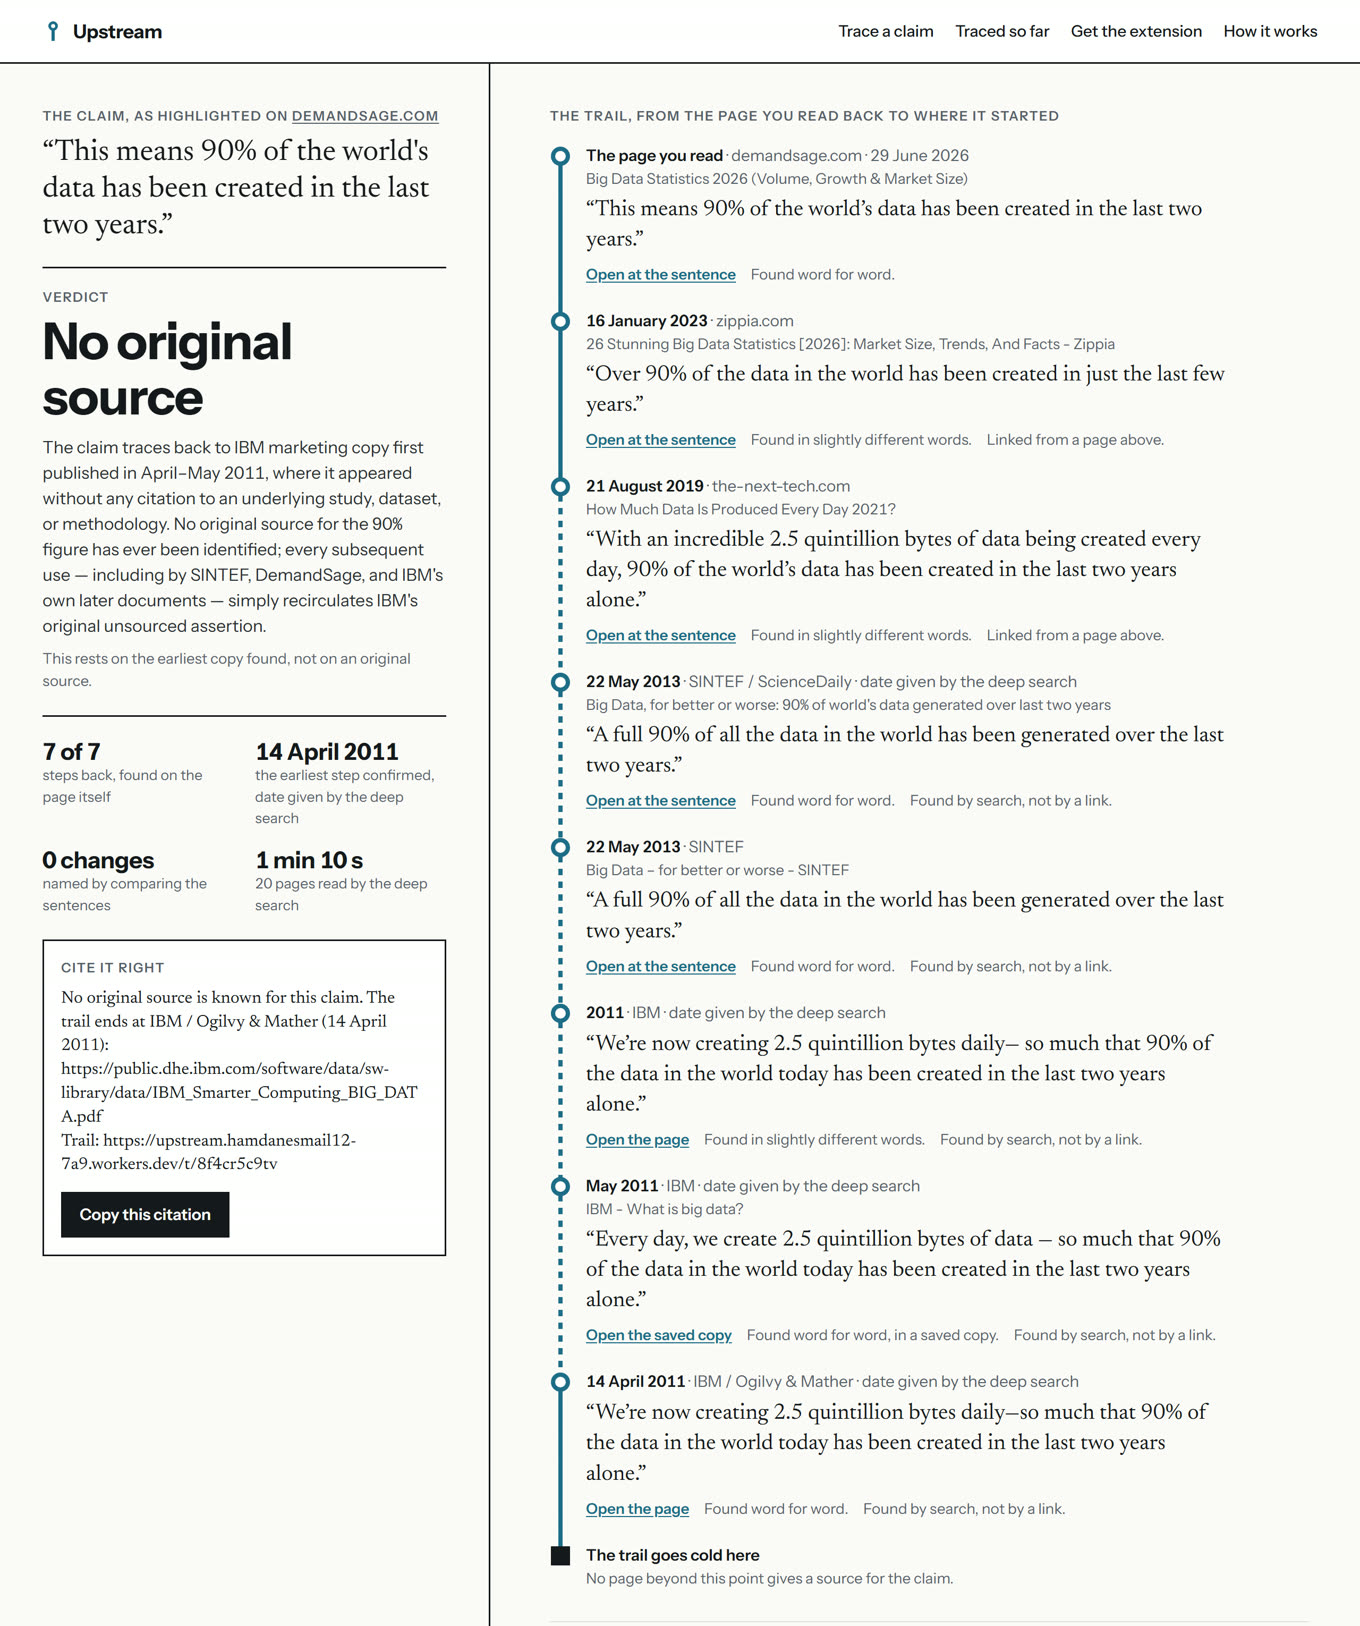
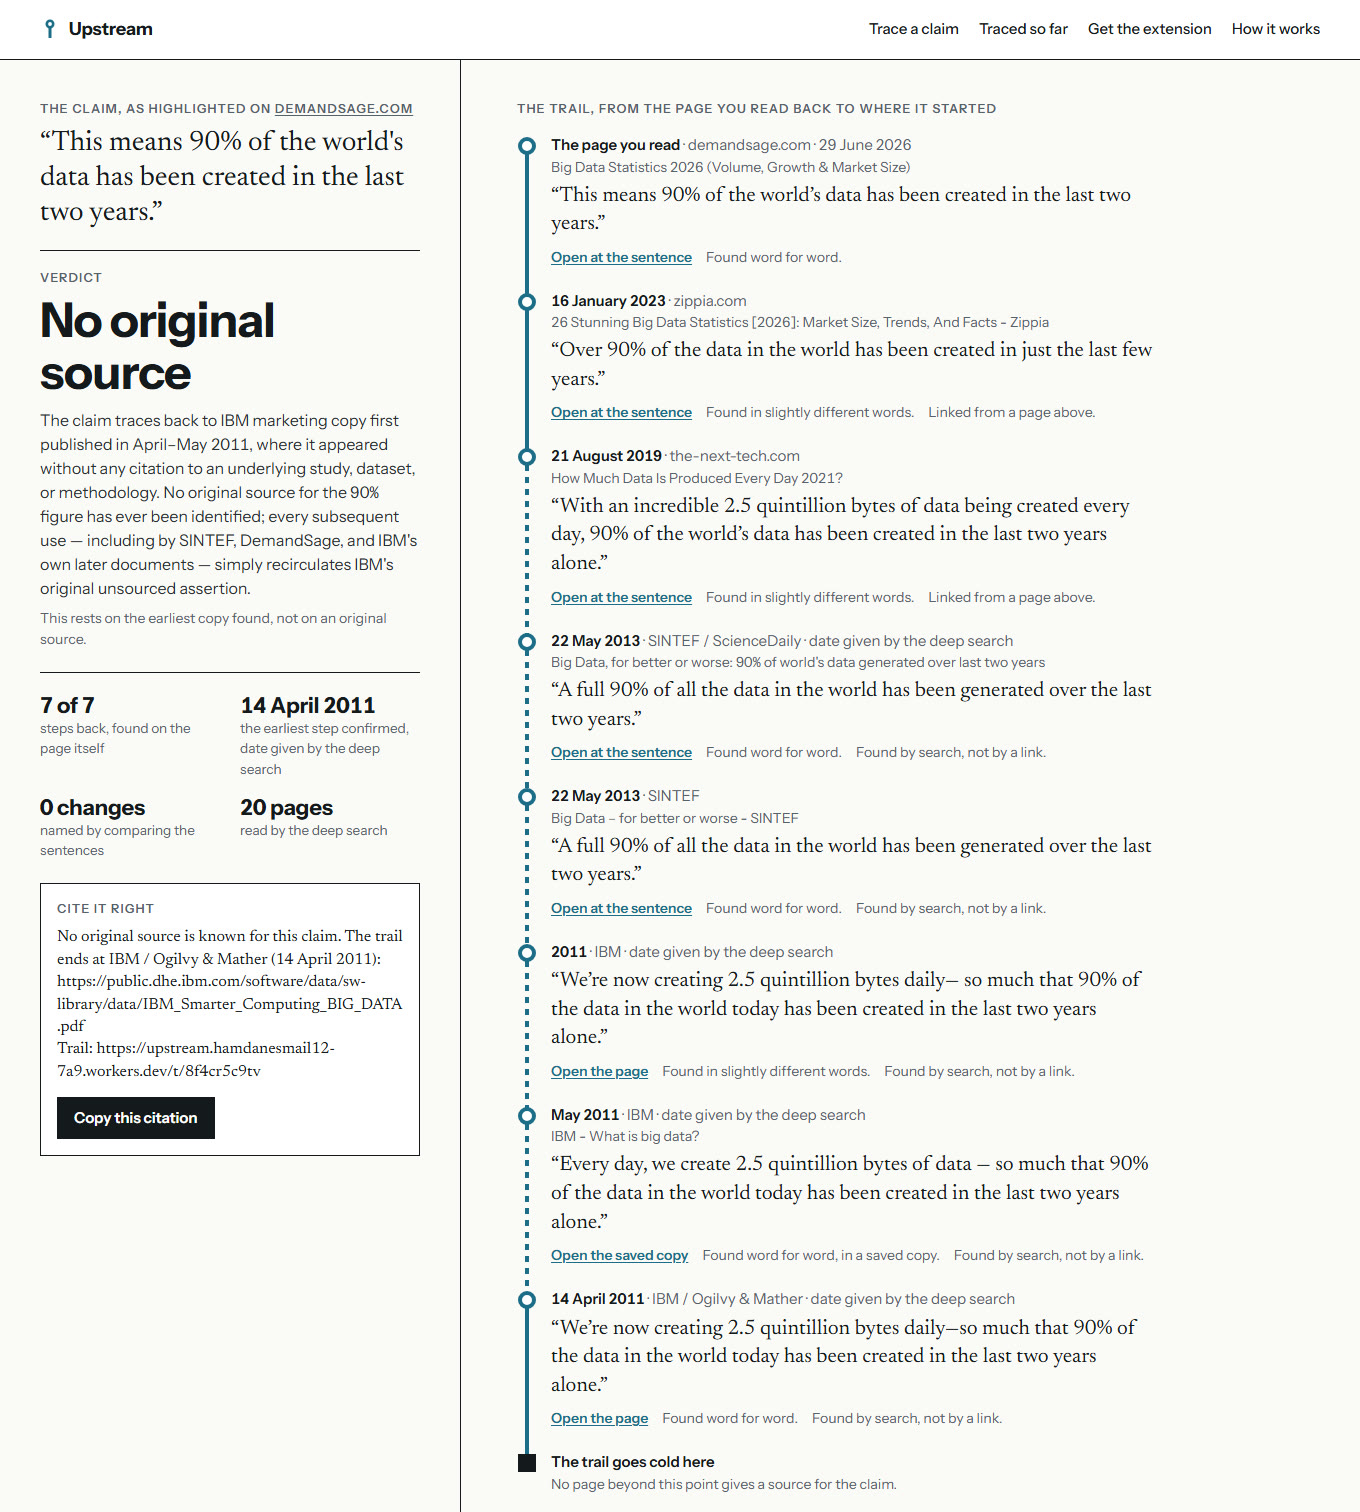
Build log and README picture: no time on a trail built from a finished run

diff --git a/docs/build-log.md b/docs/build-log.md
@@ -101,3 +101,11 @@ Filming "Cite it right", I read the citation the panel offered for the time-indo
 The citation now points at the earliest dated step that was confirmed, the same step the verdict and the tally name. With no dated step it falls back to the last confirmed one.
 
 It went live the same evening. I read all four trails before and after: the time-indoors citation now names the 2001 survey and quotes its 87%, and the other three are word for word what they were.
+
+## 11 November: a time that was not the search's
+
+The four trails on the first page were built from deep searches that had already finished, so I did not pay or wait for the same run twice. Their facts row showed how long that rebuilding took: "39 s" above "26 pages read by the deep search". Read together, the two say the deep search took 39 seconds. It takes 4 to 6 minutes. I saw it while checking a frame of the film.
+
+A trail built that way now states no time. The row shows "26 pages" and "read by the deep search", and the API gives `seconds` as null. A trail traced fresh keeps its real time.
+
+It is live. I read the row on all four trails, on the page and in the extension's panel, and retook the picture at the top of the README, which showed the old row.
